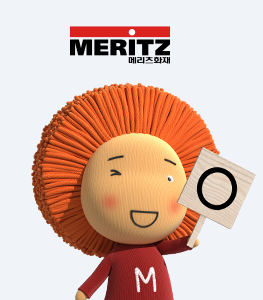
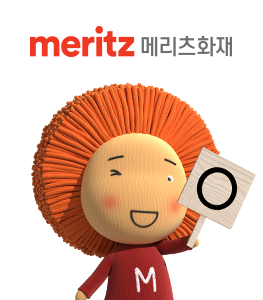
메리츠화재 로고 변경

Changed region(s): [[0.0913, 0.06, 0.8821, 0.24]]

diff --git a/mobile/resources/html/가입현황.html b/mobile/resources/html/가입현황.html
@@ -102,10 +102,21 @@
 			<!-- insurance_list : s -->
 			<div class="insurance_list">
 				<div class="tit_box">
-					<h3 class="sort_tit">정상계약</h3><span class="number"><strong>2</strong>건</span>
+					<h3 class="sort_tit">정상계약</h3><span class="number"><strong>3</strong>건</span>
 				</div>
 
 				<div class="list_box">
+					<a class="insurance" href="#">
+						<div class="name">무배당 알파 Plus 보장보험(Ⅱ)0904</div>
+						<div class="payment_info">
+							<span class="state">정상</span>
+							<div class="info">
+								<div class="payment"><strong>69,030</strong>원 <span>매월납/12년</span></div>
+								<div class="date">2009.07.17~2082.07.17</div>
+							</div>
+						</div>
+						<div class="logo"><img alt="mertiz 메리츠화재" src="/resources/images/gu.renew.logo/logo_meritz.png"></div>
+					</a> 
 					<a class="insurance" href="#">
 						<div class="name">무배당 알파 Plus 보장보험(Ⅱ)0904</div>
 						<div class="payment_info">

diff --git a/web/resources/html/가입현황.html b/web/resources/html/가입현황.html
@@ -465,7 +465,7 @@
 							<button class="insurance">
 								<div class="info">
 									<div class="inner">
-										<div class="logo"><img alt="한화생명" src="/resources/images/gu.renew.logo/logo_hanwha_life.png"></div>
+										<div class="logo"><img alt="meritz 메리츠화재" src="/resources/images/gu.renew.logo/logo_meritz.png"></div>
 										<div class="name">무배당 알파 Plus 보장보험(Ⅱ)0904</div>
 										<div class="date"><span class="state">정상</span>2009.07.17~2082.07.17</div>
 									</div>
